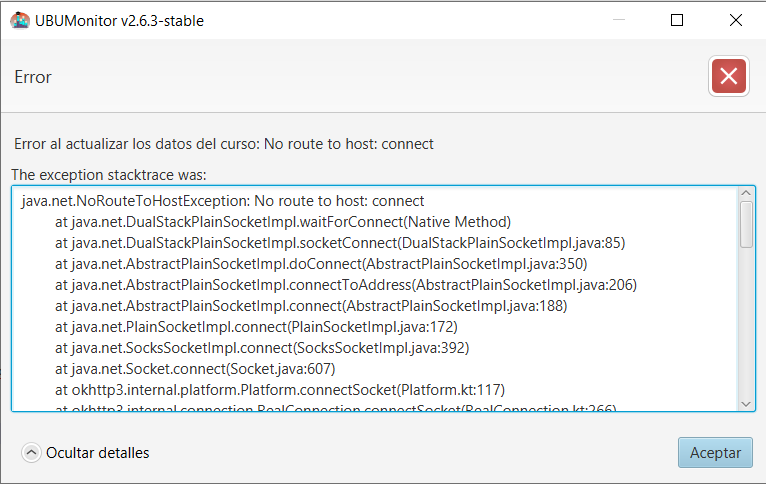
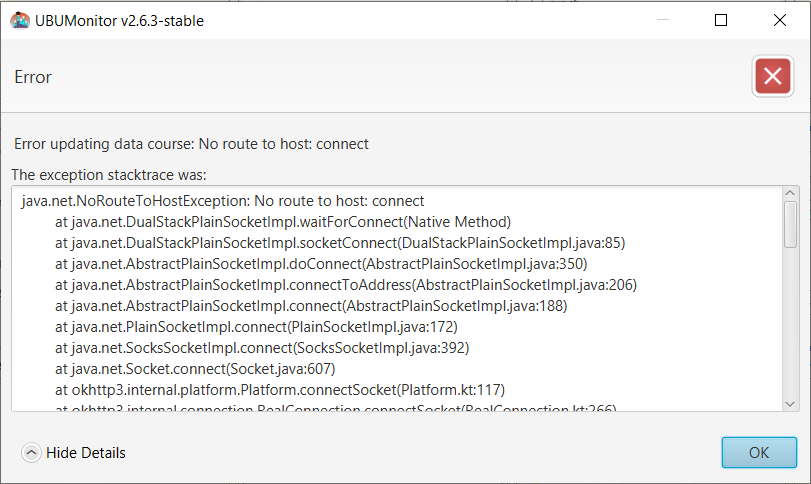
Review of englis images and text.

diff --git a/docs/source/visualization/index.rst b/docs/source/visualization/index.rst
@@ -4,12 +4,12 @@ Main screen
 The main screen is divided into:
 
 * In the upper area on the *menu bar*, the different existing menus . 
-* In the upper left corner, the *list of registered users* including number and filters by role, group and last update date.
-* In the lower left corner, the selection of records, appraisals or completion of activity.
-* In the central area, the different active graphics and filters, according to the previous selection. 
+* In the upper left corner, the *list of registered users* including number and filters by role, group and latest connection date.
+* In the lower left corner, the selection of logs, grades or completion of activity.
+* In the central area, the different active charts and filters, according to the previous selection. 
 * In the upper right corner the photo of the current user. A context menu is available to see his name, to close session in the server or to exit the application.
 * In the lower left area, there is a connection mode button (green for online vs. red for offline), the name of the loaded subject and the host we are currently accessing. 
-* In the lower right area it is shown the date and time of the last update of the local data being displayed.
+* In the lower right area it is shown the date and time of the latest update of the local data being displayed.
 
 
 .. figure:: images/Ventana_principal_de_inicio.png
@@ -20,9 +20,9 @@ The main screen is divided into:
   Initial main screen
  
  
-In the user and record/qualification and activity views, multiple selection of individual elements is allowed by holding down the "Control" key while selecting them with the mouse, and of adjacent elements by pressing the "Shift" key. The combination "Ctrl" + "A" selects all the elements of the view.
+In the user and log/grade and activity views, multiple selection of individual elements is allowed by holding down the "Control" key while selecting them with the mouse, and of adjacent elements by pressing the "Shift" key. The combination "Ctrl" + "A" selects all the elements of the view.
 
-In the graphics and tables generated in the central area, a context menu is always enabled (with the right mouse button), allowing the **export of data** in:
+In the charts and tables generated in the central area, a context menu is always enabled (with the right mouse button), allowing the **export of data** in:
 
 * Graphic format ``PNG``.
 * Text format ``CSV``.
@@ -37,8 +37,8 @@ In the graphics and tables generated in the central area, a context menu is alwa
 
 **Note: Many screenshots in this manual have been taken against data on the free **Mount Orange School** server available at https://school.moodledemo.net. Our thanks and appreciation to the Moodle development group who have given us their approval.
   
-Barra de menú 
----------------------
+Menu bar
+--------
 
 At the top of the window there is a menu bar with different options. Keyboard shortcuts are enabled by pressing the ALT key:
 
@@ -53,7 +53,7 @@ At the top of the window there is a menu bar with different options. Keyboard sh
 
 * **Change subject**: closes the current window and returns to the **Course Selection** window.
 
-* **Update course**: downloads the most recent records and updates grades and completion of activities for the current course, via the web. This option is not available in offline mode.
+* **Update course**: downloads the most recent logs and updates grades and completion of activities for the current course, via the web. This option is not available in offline mode.
 
 * **Export CSV data**: exports the data of the current course, in ``.csv`` format to the selected folder. It generates the following 8 files:
 
@@ -62,7 +62,7 @@ At the top of the window there is a menu bar with different options. Keyboard sh
    * ``enrolled_users.csv``: students enrolled.
    * ``grades.csv``: grades.
    * ``groups.csv``: groups.
-   * ``logs.csv``: complete records.
+   * ``logs.csv``: complete logs.
    * ``roles.csv``: active roles.
    * ``sections.csv``: course sections.
 
@@ -72,7 +72,7 @@ At the top of the window there is a menu bar with different options. Keyboard sh
 
 **Edit**
 
-* **Delete selection**: Removes the current selection from all available views.
+* **Delete selection**: removes the current selection from all available views.
 
 **View**
 
@@ -80,7 +80,7 @@ At the top of the window there is a menu bar with different options. Keyboard sh
 
 **Tools**
 
-* **Change configuration**: allows to customize general and particular operation and display options of each type of generated graphic. Once the changes have been selected, click on the close window button (the changes are applied automatically). Selecting the **Restore Default Values** button restores the initial values configured in the application.
+* **Change configuration**: allows to customize general and particular operation and display options of each type of generated chart. Once the changes have been selected, click on the close window button (the changes are applied automatically). Selecting the **Restore Default Values** button restores the initial values configured in the application.
 
 .. figure:: images/Configuracion.png
   :width: 400
@@ -117,7 +117,7 @@ At the top of the window there is a menu bar with different options. Keyboard sh
 List of registered users
 ------------------------
 
-This view shows the list of users enrolled in the course, along with their photograph and the time since their last access to the current course and Moodle platform in either minutes, hours or days. The system time is taken as a reference.
+This view shows the list of users enrolled in the course, along with their photo and the time since their latest access to the current course and Moodle platform in either minutes, hours or days. The system time is taken as a reference.
 
 .. figure:: images/lista_usuarios_matriculados.png
   :width: 300
@@ -126,39 +126,39 @@ This view shows the list of users enrolled in the course, along with their photo
   
   List of registered users
   
-Users are coloured, according to their last connection date to the course, to facilitate the detection of **risk of abandonment**, using the following coding:
+Users are coloured, according to their latest connection date to the course, to facilitate the detection of **risk of abandonment**, using the following coding:
 
-* Red: if you have not connected for more than 13 days
-* *Yellow*: if you've been online for 7 to 12 days.
-* Blue: if you've been online for 3 to 6 days
-* Green: if you've logged on in the last 2 days.
+* Red: if they have not connected for more than 13 days.
+* *Yellow*: if they have been online for 7 to 12 days.
+* Blue: if they have been online for 3 to 6 days
+* Green: if they have logged on in the last 2 days.
 
 It also gives the option of applying four filters together, with multiple selection:
 
 * **Text field**: filter the list by name and/or surname.
-* Role Selector: Select the role you want to filter by (e.g. student, teacher, non-editor teacher, etc.)
-* Group selector: select the group you want to filter by.
-* **Last Connection Selector**: last access selector.
+* **Role Selector**: select the role you want to filter by (e.g. student, teacher, non-editor teacher, etc.)
+* **Group selector**: select the group you want to filter by.
+* **Last Connection Selector**: latest access selector.
 
 In the upper left corner, the number of participants that comply with the applied filters is displayed.
 
 
-Student's file
+Student's card
 --------------
 
 If we select a student with the right button, a contextual menu appears *View <user name>* that launches a dialog to show the student's card. 
 
 .. figure:: images/Ficha_de_alumnos.png
   :width: 400
-  :alt: Student's file
+  :alt: Student's card
   :align: center
   
-  Student's file
+  Student's card
   
-This file shows: name, surname, email, last access dates to the subject and to Moodle, first access date to Moodle, roles, groups and number of courses/subjects you are enrolled in. 
+This card shows: name, surname, email, latest access dates to the subject and to Moodle, first access date to Moodle, roles, groups and number of courses/subjects you are enrolled in. 
 
 
-Coloured circles are used to indicate the date of last login to the subject, or to Moodle, using the same criteria as seen previously in the list of registered users (i.e. red, yellow, blue or green).
+Coloured circles are used to indicate the date of latest login to the subject, or to Moodle, using the same criteria as seen previously in the list of registered users (i.e. red, yellow, blue or green).
 
 
 In the right area, the complete list of courses in which you are enrolled is displayed. The list is shown by identifier, but can be sorted alphabetically in ascending or descending order by clicking on **Enrolled courses**.

diff --git a/docs/source/visualization/grades.rst b/docs/source/visualization/grades.rst
@@ -1,7 +1,7 @@
 Grade visualization
 ===================
 
-In the lower left corner, on the **Ratings** tab, the qualifier's hierarchy is displayed along with its filters. The view allows for multiple selection. You can expand and enlarge this area at any time to better see the names of the rating elements.
+In the lower left corner, on the **Ratings** tab, the gradebook's hierarchy is displayed along with its filters. The view allows for multiple selection. You can expand and enlarge this area at any time to better see the names of the grading elements.
 
 .. figure:: images/Calificador.png
   :width: 200
@@ -10,12 +10,12 @@ In the lower left corner, on the **Ratings** tab, the qualifier's hierarchy is d
   
   Visualization of grades
   
-The view shows the equivalent of the qualifier set in Moodle. There are two types of filters that are used together:
+The view shows the equivalent of the gradebook in Moodle. There are two types of filters that are used together:
 
-* **Text field**: by qualifier element name.
+* **Text field**: by grade item name.
 * **Type selector**: by assessment element type (e.g. forum, assignment, quiz, etc.)
 
-Once the **Qualifications** tab is selected, the graphics area is loaded in the main central area of the application. At the top there are buttons to select the type of chart to be shown and to hide/show the legend, general statistics and group statistics. Depending on the selected graphic, this display of legend, general and group statistics is enabled or disabled.
+Once the **Grades** tab is selected, the chart area is loaded in the main central area of the application. At the top there are buttons to select the type of chart to be shown and to hide/show the legend, general statistics and group statistics. Depending on the selected chart, this display of legend, general and group statistics is enabled or disabled.
 
 
 .. figure:: images/BarraHerramientasCalificaciones.png
@@ -27,13 +27,13 @@ Once the **Qualifications** tab is selected, the graphics area is loaded in the 
   
 It must be taken into account that **non-rated items** (rated "-") **do not count** for the calculation of averages, neither in the generation of boxplot or violin-type charts.
 
-It should also be noted that in the line graphics, radar and scoreboard, when clicking on the points or elements of a particular student on the graph, it is positioned in the corresponding user list, to facilitate their identification.
+It should also be noted that in the chart, when clicking on the points or elements of a **particular student** on the chart or table, it is positioned in the corresponding user list, to facilitate their identification.
 
 
 Line chart
 ----------
 
-Displays a line graph representing student grades, rescaled to the range [0, 10], for each element of the selected qualifier. The average value is also shown as a reference.
+Displays a line chart representing student grades, rescaled to the range [0, 10], for each element of the selected gradebook. The average value is also shown as a reference.
 
 
 .. figure:: images/GraficoLineas.png
@@ -46,7 +46,7 @@ Displays a line graph representing student grades, rescaled to the range [0, 10]
 Radar chart
 -----------
 
-Radar chart or also known as spider diagram or Kiviat. Very useful to compare two or more course participants, on the different axes corresponding to items or categories of qualification.
+Radar chart or also known as spider diagram or Kiviat. Very useful to compare two or more course participants, on the different axes corresponding to items or categories of gradebook.
 
 .. figure:: images/GraficoRadar.png
   :width: 600
@@ -58,7 +58,7 @@ Radar chart or also known as spider diagram or Kiviat. Very useful to compare tw
 Boxplot chart
 -------------
 
-Displays information from a boxplot or box-and-whisker diagram with the students' grades. In this graph we can see the maximums, minimums, the median, first and third quartiles, and *ouliers* (as thicker points) if they exist.
+Displays information from a boxplot or box-and-whisker diagram with the students' grades. In this chart, we can see the maximums, minimums, the median, first and third quartiles, and *ouliers* (as thicker points) if they exist.
 
 .. figure:: images/GraficoBoxPlotDeGrupos.png
   :width: 600
@@ -105,7 +105,7 @@ The data are presented in two blocks of students and statistics, which can be co
 Percentage chart
 ----------------
 
-Displays a stacked bar graph with the percentage of selected students who are not graded (*N.C*), fail (*Suspended*), or pass (*Failed*) each of the selected grading items.
+Displays a stacked bar chart with the percentage of selected students who are not graded (*N.C*), fail (*Suspended*), or pass (*Failed*) each of the selected grading items.
 
 .. figure:: images/Porcentajes.png
   :width: 600

diff --git a/docs/source/visualization/logs.rst b/docs/source/visualization/logs.rst
@@ -23,16 +23,16 @@ By clicking on the **Logs** tab, in the lower left corner, several filtering opt
    * Months
    * All
    
-* **Start reference date**: the indicative start date shown when grouping. It initially takes the value of the subject configuration in Moodle.
-* **End reference date**: the indicative end date shown when grouping. Initially it takes as end date the minimum of the current date and the end date of the course if it exists.
+* **Start reference date**: the reference start date shown when grouping. It initially takes the value of the subject configuration in Moodle.
+* **End reference date**: the reference end date shown when grouping. Initially it takes as end date the minimum of the current date and the end date of the course if it exists.
 
 Note that the start and end reference date are not taken into account when making groupings. For example, when grouping by months and an initial date of 06/17/2019 to 06/24/2019, it will not show the logs between those two days, but will show all those of June.
 
 In the groupings by **Hours** and **Days of the week** they do not use the date selector, being calculated on the total of logs, therefore they are disabled.
 
-In the graphics, when you click on the points or elements of a specific student, it is positioned in the view of the corresponding user, to facilitate their identification. The student's file is available to consult additional information.
+In the charts, when you click on the points or elements of a specific student, it is positioned in the view of the corresponding user, to facilitate their identification. The student's file is available to consult additional information.
 
-In the lower left area, the possible tabs for selecting elements on which to generate the graphs are shown: **Components**, **Events**, **Sections** or **Course Modules**. Multiple selection is allowed on all of them and filtering by text.
+In the lower left area, the possible tabs for selecting elements on which to generate the charts are shown: **Components**, **Events**, **Sections** or **Course Modules**. Multiple selection is allowed on all of them and filtering by text.
 
 Components
 ----------
@@ -101,7 +101,7 @@ Setting the maximum value to **Change suggested maximum scale:** recalculates an
 HeatMap chart
 -------------
 
-Displays a "heatmap" for selected users The heatmap colours from red to green, from lower to higher intensity, in relation to the number of user accesses to the selected items and to the filter selection in the lower zone. 
+Displays a heatmap for selected users The heatmap colours from red to green, from lower to higher intensity, in relation to the number of user accesses to the selected items and to the filter selection in the lower zone. 
 
 .. figure:: images/GraficoHeatMap.png
   :width: 600
@@ -121,7 +121,7 @@ If we click on the upper legend in a range, for example on the zero value, those
   
 Setting the maximum value to **Change suggested maximum scale:** recalculates and adjusts the color palette.
 
-Cumulative Chart
+Cumulative chart
 ----------------
 
 Displays the accumulated value of the number of logs, over time. The average value is included for comparison with a dashed line. It allows to show the evolution along the course of the number of accesses by each student and to compare it with the rest.
@@ -134,7 +134,7 @@ Displays the accumulated value of the number of logs, over time. The average val
   Cumulative Chart
 
 
-Rel. Cumulative Chart
+Rel. Cumulative chart
 ---------------------
 
 Displays the cumulative value of the number of logs against the average value as a reference, over time. The measurement as a reference line always corresponds to the red dashed line at the zero point. It allows you to show the evolution relative to the average over the course of time.

diff --git a/docs/source/courseselection.rst b/docs/source/courseselection.rst
@@ -8,7 +8,7 @@ The main area shows the list of courses (or subjects) in which the current user 
 * **Recent**: courses recently accessed by the user.
 * **Highlighted**: courses highlighted by the user.
 * **All**: complete set of courses in which the user is enrolled.
-* In progress**: current course, with start and end date including the current date.
+* **In progress**: current course, with start and end date including the current date.
 * **Futures**: courses to be taken, with a start date later than the current date.
 * **Past**: courses already completed, with an end date prior to the current date.
 
@@ -25,11 +25,11 @@ The first time a course is selected the text **Last local update** will be displ
 
 Additionally the **advanced option** of downloading **Web logs only** is left if you want to download only logs from the browser (ignoring client, *web service*, *restore* or unclassified logs). By default it is unchecked and only recommended for advanced users.
 
-We press the button **Enter** to start the download. This data download process may **take several minutes for the first download** (depending on the number of students, size of the qualifier, number of new records and activities with active completion tracking). 
+We press the button **Enter** to start the download. This data download process may **take several minutes for the first download** (depending on the number of students, size of the gradebook, number of new logs and activities with active completion tracking). 
 
-A progress bar will be displayed at the bottom indicating the stages completed (uploading of the scorer, downloading of activity completion, downloading of the log and parsing of logs). **Further updates will be shorter**, as the log loading is incremental, although the qualifier and activity completion is always fully updated.
+A progress bar will be displayed at the bottom indicating the stages completed (uploading of the gradebook, downloading of activity completion, downloading of the log and parsing of logs). **Further updates will be shorter**, as the log loading is incremental, although the gradebook and activity completion is always fully updated.
 
-On the other hand, it is **VERY IMPORTANT** that the percentage information is visible in the appraiser (by default it is visible in Moodle) for correct reading and subsequent display of the appraisals.
+On the other hand, it is **VERY IMPORTANT** that the percentage information is visible in the gradebook configuration (by default it is visible in Moodle) for correct reading and subsequent display of the grades.
 
 Once the download is finished, the main window of the application will be shown.
 
@@ -91,6 +91,6 @@ In the case that the Moodle password has been changed recently, a pop-up window 
   
   Password changed
   
-When the old password has been successfully entered, the local cached file is encrypted and saved with the new password. This is **required**, because the information is **always** encrypted**.
+When the old password has been successfully entered, the local cached file is encrypted and saved with the new password. This is **required**, because the information is **always encrypted**.
 
-**VERY IMPORTANT**: It is necessary to remember the previous password, in order to recover the data. If not, the cache must be cleared (**Clear** button), to force the courses to be reloaded.
+**VERY IMPORTANT**: It is necessary to remember the previous password, in order to recover the data. If not, the cache must be cleared (**Clean** button), to force the courses to be reloaded.

diff --git a/docs/source/login.rst b/docs/source/login.rst
@@ -12,7 +12,7 @@ Once the application is started, the login screen will be displayed. The window 
   
 Next, you must enter your **User** and **Password** credentials in Moodle. 
 
-**VERY IMPORTANT:** the application *Never* persistently stores, nor forwards to other servers, the *password* of the user, for security reasons. The source code is available for audit and you can check which data and to which server it is sent, with a network analysis software or *sniffer* (e.g. Wireshark, Microsoft Message Analyzer, Tcpdump, etc.).
+**VERY IMPORTANT:** the application **never** persistently stores, nor forwards to other servers, the *password* of the user, for security reasons. The source code is available for audit and you can check which data and to which server it is sent, with a network analysis software or *sniffer* (e.g. Wireshark, Microsoft Message Analyzer, Tcpdump, etc.).
 
 
 Online mode
@@ -22,7 +22,7 @@ In the **Host** field you must indicate the URL of the website of the chosen Moo
 
 For example:
 
-* to access the Mount Orange School test server you will literally put: ``https://school.moodledemo.net``.
+* to access the Mount Orange School test server you will literally put: ``https://school.moodledemo.net``
 * to access the UBU's Moodle server (UBUVirtual) you will literally put: ``https://ubuvirtual.ubu.es``
 
 It is recommended that you always access secure servers (with https://) to ensure that the information you send is encrypted.
@@ -46,7 +46,7 @@ The application **remembers** the *urls* of the servers that have been used **pr
   Suggested previously used hosts
 
 
-For convenience, the option is given to **Remember user** and **Remember host**, avoiding having to fill in the fields again in subsequent accesses. This information is saved in a ``config.properties`` file in the current directory, if we check one or both options. The **Delete** button allows you to remove the text from the three fields.
+For convenience, the option is given to **Remember user** and **Remember host**, avoiding having to fill in the fields again in subsequent accesses. This information is saved in a ``config.properties`` file in the current directory, if we check one or both options. The **Clear** button allows you to remove the text from the three fields.
 
 After entering the credentials we press the button **Enter**. If the data is valid, it will load the following screen, and if not, it will show an error message in the lower area of the window. 
 

diff --git a/docs/source/visualization/activities.rst b/docs/source/visualization/activities.rst
@@ -3,7 +3,7 @@ Activity completion visualization
 
 The activity completion shows the current status of each activity, on which tracking has been activated. 
 
-For each activity its status is shown, with a green stick if it is completed, with a red cross if it has been done, but not exceeded, and in white if it has not been done. If we position the cursor in any of the boxes, a *tooltip* shows the date and time of completion.
+For each activity its status is shown, with a green stick if it is completed, with a red cross if it has been done, but not exceeded, and in blank if it has not been done. If we position the cursor in any of the boxes, a *tooltip* shows the date and time of completion.
 
 .. figure:: images/Actividades.png
   :width: 750
@@ -17,7 +17,7 @@ The last column shows the progress of the number of activities for each user, wi
 
 In the header of each column the number of users who have completed the activity and the percentage of the total number of users are shown.
 
-You can apply the filter by date to display only the completion of activities within the marked range, allowing you to view the specific snapshot at a particular moment in time. 
+You can apply the filter by date to display only the completion of activities within the marked range, allowing you to view the specific snapshot, at a particular moment in time. 
 
 It allows the alphabetical, temporal or numerical sorting according to the name column, item or percentage respectively.
 

diff --git a/docs/source/appendix.rst b/docs/source/appendix.rst
@@ -9,14 +9,14 @@ Initial Content
 If the portable version is installed, unzipping creates a directory:
 
 * ``UBUMonitor.v2.6.3-stable-Win64-Portable`` on Windows 64 bits.
-* UBUMonitor.v2.6.3-stable-Win32-Portable`` on 32-bit Windows.
-* UBUMonitor.v2.6.3-stable-Linux64-Portable`` on GNU/Linux 64-bit.
+* ``UBUMonitor.v2.6.3-stable-Win32-Portable`` on 32-bit Windows.
+* ``UBUMonitor.v2.6.3-stable-Linux64-Portable`` on GNU/Linux 64-bit.
 
 In the directory created, we will have the following content in Windows (32-bit content is equivalent):
 
 .. figure:: images/contenido_instalacion_portable_64bits.png
   :width: 350
-  :alt: Windows's content.
+  :alt: Content in Windows S.O.
   :align: center
   
   Content in a portable Windows installation (for 64-bit)
@@ -25,7 +25,7 @@ While in GNU/Linux we will have the following content:
 
 .. figure:: images/contenido_instalacion_portable_linux64bits.png
   :width: 350
-  :alt: GNU/Linux content.
+  :alt: Content in GNU/Linux S.O.
   :align: center
   
   Content in a portable installation on GNU/Linux (for 64 bits)

diff --git a/docs/source/errormessages.rst b/docs/source/errormessages.rst
@@ -29,7 +29,7 @@ Another example, in the following figure, shows the corresponding message if the
 Error dialog
 ------------
 
-A modal dialogue is opened with a text describing the error and the option to display **Show details**. In the following figure we see an example of an error when losing the network connection when loading a course.
+A modal dialog is opened with a text describing the error and the option to display **Show details**. In the following figure we see an example of an error when losing the network connection when loading a course.
 
 
 .. figure:: images/error_sin_red_cargando_asignatura.png

diff --git a/docs/source/faq.rst b/docs/source/faq.rst
@@ -15,7 +15,7 @@ Yes, you can have as many installations as you want, since each one goes in its 
 
 **Can I delete the data cache?**
 
-Yes, you can delete the cache directory manually from the operating system or by using the "Clear" button available in the course selection window. 
+Yes, you can delete the cache directory manually from the operating system or by using the "Clean" button available in the course selection window. 
 
 **How can I uninstall UBUMonitor?**
 
